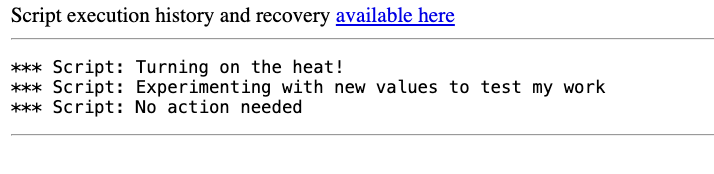
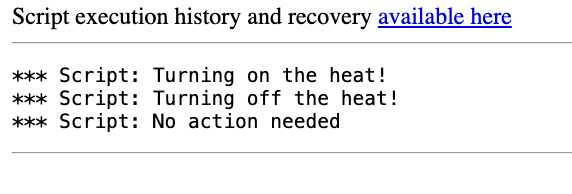
added a test condition for lab 2.1.1

diff --git a/Lab2.1.1.js b/Lab2.1.1.js
@@ -27,7 +27,6 @@ if (temperature < desiredTemperature && homeIsOccupied && !heaterIsOn) {
 
   /* temperature is greater than desiredTemperature and heater is on and home is occupied*/
 } else if (temperature > desiredTemperature && heaterIsOn && homeIsOccupied) {
-  heaterIsOn = false;
   gs.info("Turning off the heat!");
 
   /* home is not occupied */
@@ -42,17 +41,31 @@ if (temperature < desiredTemperature && homeIsOccupied && !heaterIsOn) {
  *    * change the temperature to 75 and the heaterIsOn to true and test the results
  *    * Change homeIsOccupied to false and test the results
  */
+
 temperature = 75;
 heaterIsOn = true;
-homeIsOccupied = false;
-gs.info("Experimenting with new values to test my work");
+/* temperature is less than desiredTemperature and home is occupied and heater is off */
 if (temperature < desiredTemperature && homeIsOccupied && !heaterIsOn) {
   heaterIsOn = true;
   gs.info("Turning on the heat!");
 
   /* temperature is greater than desiredTemperature and heater is on and home is occupied*/
 } else if (temperature > desiredTemperature && heaterIsOn && homeIsOccupied) {
-  heaterIsOn = false;
+  gs.info("Turning off the heat!");
+
+  /* home is not occupied */
+} else if (!homeIsOccupied) {
+  gs.info("No action needed");
+}
+
+homeIsOccupied = false;
+/* temperature is less than desiredTemperature and home is occupied and heater is off */
+if (temperature < desiredTemperature && homeIsOccupied && !heaterIsOn) {
+  heaterIsOn = true;
+  gs.info("Turning on the heat!");
+
+  /* temperature is greater than desiredTemperature and heater is on and home is occupied*/
+} else if (temperature > desiredTemperature && heaterIsOn && homeIsOccupied) {
   gs.info("Turning off the heat!");
 
   /* home is not occupied */
